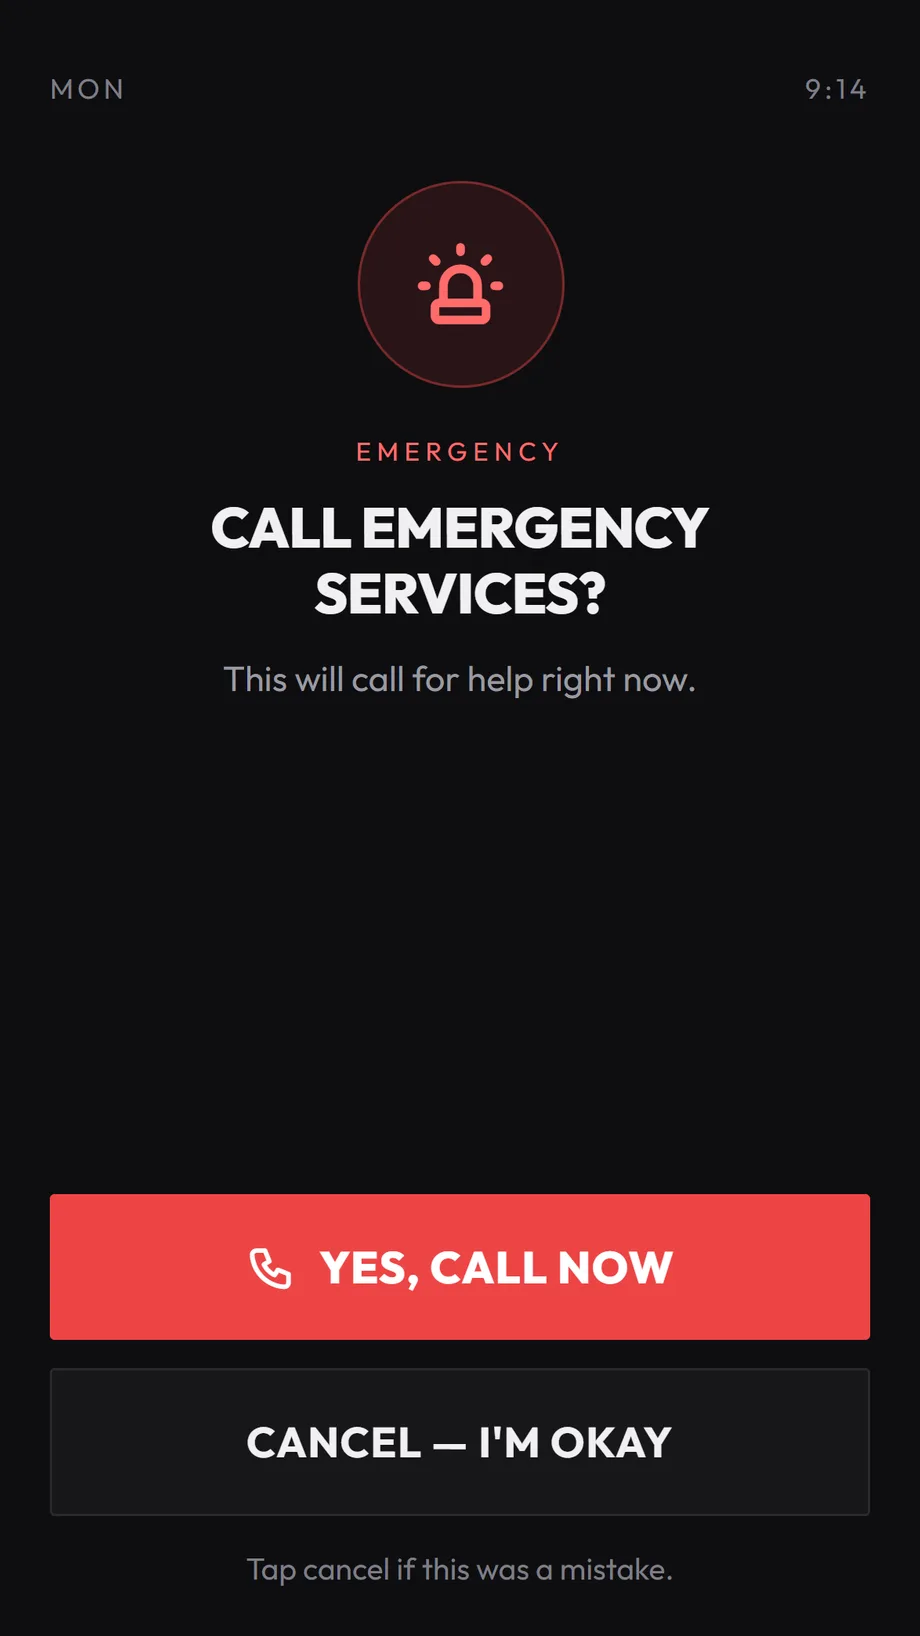
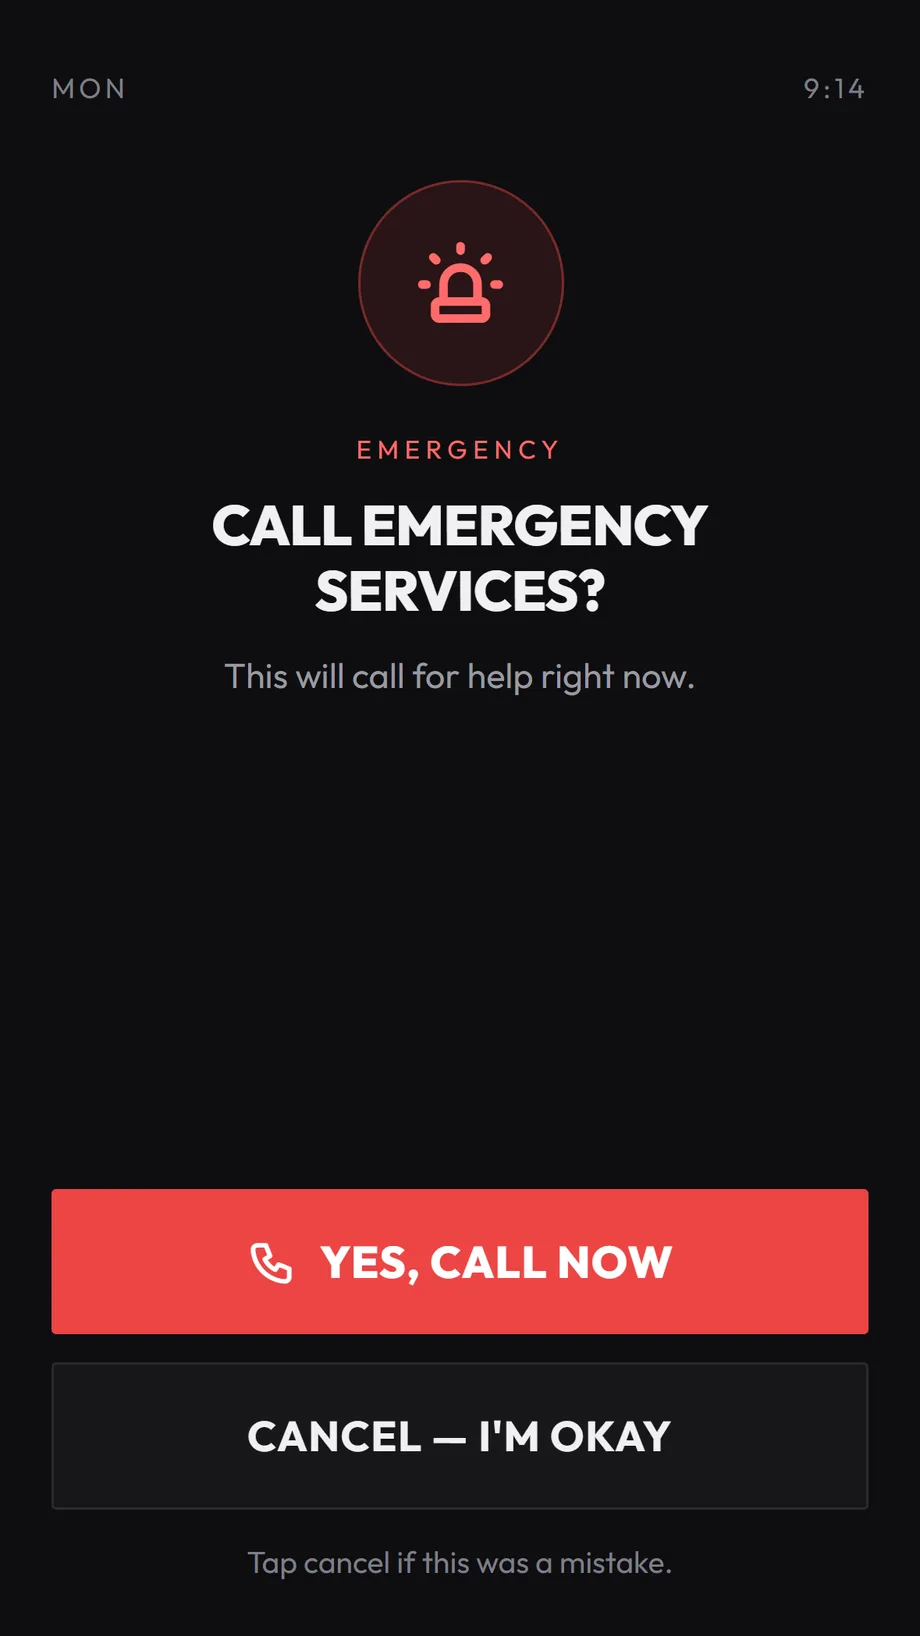
gender-neutral copy pass: they/them across site + app (grandma or grandpa), demo persona Rose->Alex, contact Thomas->Daniel; all screenshots recaptured

diff --git a/index.html b/index.html
@@ -3,11 +3,11 @@
 <head>
 <meta charset="utf-8">
 <meta name="viewport" content="width=device-width, initial-scale=1">
-<title>Oto | Freedom for Her. Peace of Mind for You.</title>
-<meta name="description" content="Oto is one calm screen for someone you love in assisted living — she calls family with a tap, tells you she's okay, sees her day, and can always reach help. She initiates. Family receives. Never surveillance.">
+<title>Oto | Freedom for Them. Peace of Mind for You.</title>
+<meta name="description" content="Oto is one calm screen for someone you love in assisted living — they call family with a tap, tell you they're okay, see their day, and can always reach help. They initiate. Family receives. Never surveillance.">
 <link rel="canonical" href="https://otoshiyori.health/">
-<meta property="og:title" content="Oto — Freedom for her. Peace of mind for you.">
-<meta property="og:description" content="A dignity-first companion app for older adults. She calls, she checks in, she asks for help — on her terms.">
+<meta property="og:title" content="Oto — Freedom for them. Peace of mind for you.">
+<meta property="og:description" content="A dignity-first companion app for older adults. They call, they check in, they ask for help — on their terms.">
 <meta property="og:image" content="https://otoshiyori.health/assets/img/og.png">
 <meta property="og:url" content="https://otoshiyori.health/">
 <meta property="og:type" content="website">
@@ -19,7 +19,7 @@
 <script type="application/ld+json">
 { "@context": "https://schema.org", "@type": "FAQPage", "mainEntity": [
   { "@type": "Question", "name": "Is Oto a monitoring app?",
-    "acceptedAnswer": { "@type": "Answer", "text": "No — and that's the point. Oto has no GPS, no location tracking, no camera watching, and no family dashboard of her activity. Everything family sees is something she chose to send." } },
+    "acceptedAnswer": { "@type": "Answer", "text": "No — and that's the point. Oto has no GPS, no location tracking, no camera watching, and no family dashboard of their activity. Everything family sees is something they chose to send." } },
   { "@type": "Question", "name": "When will Oto be available?",
     "acceptedAnswer": { "@type": "Answer", "text": "Oto is in development. It will launch on Google Play; you can write to support@ubersoft.pro to hear when it's ready." } },
   { "@type": "Question", "name": "Who is Oto for?",
@@ -139,22 +139,22 @@
 <header class="hero" id="top"><div class="wrap">
   <img class="icon" src="/assets/img/app-icon.png" alt="Oto app icon" width="84" height="84">
   <div class="eyebrow">Oto · お年寄り</div>
-  <h1>Freedom for her. <em>Peace of mind</em> for you.</h1>
-  <p class="sub">One calm screen for someone you love in assisted living. She calls family with a tap, tells you she's okay, sees her day, and can always reach help — on her terms, never under surveillance.</p>
+  <h1>Freedom for them. <em>Peace of mind</em> for you.</h1>
+  <p class="sub">One calm screen for someone you love in assisted living. They call family with a tap, tell you they're okay, see their day, and can always reach help — on their terms, never under surveillance.</p>
   <div class="cta"><span class="chip-soon"><i></i>In development — coming to Google Play</span></div>
-  <div class="trust"><span>She initiates</span><span>No tracking</span><span>No account</span></div>
+  <div class="trust"><span>They initiate</span><span>No tracking</span><span>No account</span></div>
 </div></header>
 
 <div class="stats"><div class="stats-in">
   <div class="stat"><b>1</b><span>Tap to reach family</span></div>
   <div class="stat"><b>0</b><span>Tracking &amp; surveillance</span></div>
   <div class="stat"><b>4</b><span>Things, done gently</span></div>
-  <div class="stat"><b>100%</b><span>Her choice, always</span></div>
+  <div class="stat"><b>100%</b><span>Their choice, always</span></div>
 </div></div>
 
 <section id="features"><div class="wrap">
   <div class="sec-head reveal">
-    <span class="eyebrow">What she gets</span>
+    <span class="eyebrow">What they get</span>
     <h2>One screen. Everything that matters.</h2>
     <p>No menus to get lost in, no feeds, no noise. Four things, big and clear, all of them hers.</p>
   </div>
@@ -163,7 +163,7 @@
     <div class="ftext">
       <span class="eyebrow">Tap a face to call</span>
       <h2>Family is one tap away.</h2>
-      <p>No dialer, no contact list to navigate. She taps Thomas's face and it rings Thomas. Photos, never menus — built for older eyes and less steady hands.</p>
+      <p>No dialer, no contact list to navigate. Tap Daniel's face and it rings Daniel. Photos, never menus — built for older eyes and less steady hands.</p>
     </div>
     <div class="fphone"><button class="shot-link" type="button" data-full="/assets/img/shot-home.webp" aria-label="Enlarge screenshot: Oto home screen: family call faces, I'm okay button, today's reminders"><img class="shotimg reveal-slide" src="/assets/img/shot-home.png" srcset="/assets/img/shot-home.webp" alt="Oto home screen: family call faces, I'm okay button, today's reminders" loading="lazy" width="460" height="818"></button></div>
   </div>
@@ -171,19 +171,19 @@
   <div class="feature flip reveal">
     <div class="ftext">
       <span class="eyebrow">I'm okay today</span>
-      <h2>She sends it. You breathe.</h2>
-      <p>One green tap and the family knows she's fine. She gives the reassurance — she isn't tracked into it. That's the whole idea: she initiates, family receives.</p>
+      <h2>They send it. You breathe.</h2>
+      <p>One green tap and the family knows they're fine. They give the reassurance — they aren't tracked into it. That's the whole idea: they initiate, family receives.</p>
     </div>
-    <div class="fphone"><button class="shot-link" type="button" data-full="/assets/img/shot-home-sent.webp" aria-label="Enlarge screenshot: The I'm okay check-in sent — family knows she's fine"><img class="shotimg reveal-slide" src="/assets/img/shot-home-sent.png" srcset="/assets/img/shot-home-sent.webp" alt="The I'm okay check-in sent — family knows she's fine" loading="lazy" width="460" height="818"></button></div>
+    <div class="fphone"><button class="shot-link" type="button" data-full="/assets/img/shot-home-sent.webp" aria-label="Enlarge screenshot: The I'm okay check-in sent — family knows they're fine"><img class="shotimg reveal-slide" src="/assets/img/shot-home-sent.png" srcset="/assets/img/shot-home-sent.webp" alt="The I'm okay check-in sent — family knows they're fine" loading="lazy" width="460" height="818"></button></div>
   </div>
 
   <div class="feature reveal">
     <div class="ftext">
       <span class="eyebrow">Today</span>
-      <h2>Her day, on her terms.</h2>
-      <p>Morning pills, tea with Margaret — gentle reminders she controls. Family can add to her day, but never invisibly: anything they add is labeled, and she can always remove it.</p>
+      <h2>Their day, on their terms.</h2>
+      <p>Morning pills, tea with Margaret — gentle reminders under their control. Family can add to the day, but never invisibly: anything added is clearly labeled and can always be removed.</p>
     </div>
-    <div class="fphone"><button class="shot-link" type="button" data-full="/assets/img/shot-calling.webp" aria-label="Enlarge screenshot: Calling Thomas — one tap native call"><img class="shotimg reveal-slide" src="/assets/img/shot-calling.png" srcset="/assets/img/shot-calling.webp" alt="Calling Thomas — one tap native call" loading="lazy" width="460" height="818"></button></div>
+    <div class="fphone"><button class="shot-link" type="button" data-full="/assets/img/shot-calling.webp" aria-label="Enlarge screenshot: Calling Daniel — one tap native call"><img class="shotimg reveal-slide" src="/assets/img/shot-calling.png" srcset="/assets/img/shot-calling.webp" alt="Calling Daniel — one tap native call" loading="lazy" width="460" height="818"></button></div>
   </div>
 
   <div class="feature flip reveal">
@@ -200,14 +200,14 @@
   <div class="sec-head reveal">
     <span class="eyebrow">Why it's different</span>
     <h2>Dignity is the product.</h2>
-    <p>Most "senior safety" apps quietly become surveillance the family loves and she resents. Oto is built the other way up.</p>
+    <p>Most "senior safety" apps quietly become surveillance the family loves and the person resents. Oto is built the other way up.</p>
   </div>
   <div class="bens">
-    <div class="ben reveal"><h3><b>She</b> initiates</h3><p>Every signal the family sees is something she chose to send. The safety net stays invisible until it's truly needed.</p></div>
+    <div class="ben reveal"><h3><b>They</b> initiate</h3><p>Every signal the family sees is something they chose to send. The safety net stays invisible until it's truly needed.</p></div>
     <div class="ben reveal"><h3>No tracking</h3><p>No GPS, no location history, no camera watching, no activity dashboard. If it would feel like being watched, it isn't in Oto.</p></div>
     <div class="ben reveal"><h3>Big &amp; readable</h3><p>Large type, generous targets, high contrast, and lots of air. Built for older eyes and hands that aren't as steady as they were.</p></div>
     <div class="ben reveal"><h3>Real phone calls</h3><p>Calls go through the phone's own dialer — reliable, familiar, and they work even when the app doesn't.</p></div>
-    <div class="ben reveal"><h3>Family stays close</h3><p>The family side is deliberately tiny: a gentle "she's okay today" and a call button. Peace of mind, not a monitoring console.</p></div>
+    <div class="ben reveal"><h3>Family stays close</h3><p>The family side is deliberately tiny: a gentle "they're okay today" and a call button. Peace of mind, not a monitoring console.</p></div>
     <div class="ben reveal"><h3>For every ability</h3><p>Designed with older adults and people with limited mobility or dexterity in mind — including those who need a little help answering.</p></div>
   </div>
 </div></section>
@@ -217,8 +217,8 @@
     <span class="eyebrow">FAQ</span>
     <h2>Fair questions.</h2>
   </div>
-  <details class="faq"><summary>Is Oto a monitoring app?<span class="fx" aria-hidden="true"></span></summary><p>No — and that's the point. There's no GPS, no location tracking, and no dashboard of her activity. Everything family sees is something she chose to send. Oto is hers; family receives.</p></details>
-  <details class="faq"><summary>Who sets up her schedule?<span class="fx" aria-hidden="true"></span></summary><p>She owns it. Family can help — repeating things like medication get set up once, together — and anything family adds appears clearly labeled, and she can remove it. Nothing ever changes behind her back.</p></details>
+  <details class="faq"><summary>Is Oto a monitoring app?<span class="fx" aria-hidden="true"></span></summary><p>No — and that's the point. There's no GPS, no location tracking, and no dashboard of their activity. Everything family sees is something they chose to send. Oto is theirs; family receives.</p></details>
+  <details class="faq"><summary>Who sets up their schedule?<span class="fx" aria-hidden="true"></span></summary><p>They own it. Family can help — repeating things like medication get set up once, together — and anything family adds appears clearly labeled and can be removed. Nothing ever changes behind their back.</p></details>
   <details class="faq"><summary>What about real emergencies?<span class="fx" aria-hidden="true"></span></summary><p>The help button reaches a real person — family or the facility's nurse line. A true emergency-services call is there too, always behind a calm "are you sure?" confirm so an accidental tap never dials an ambulance.</p></details>
   <details class="faq"><summary>Who is Oto for?<span class="fx" aria-hidden="true"></span></summary><p>Older adults — especially in assisted living — and people with limited mobility or dexterity, plus the families who love them. "Otoshiyori" (お年寄り) is Japanese for the elderly.</p></details>
   <details class="faq"><summary>When can I get it?<span class="fx" aria-hidden="true"></span></summary><p>Oto is in development and will launch on Google Play. Write to <a href="mailto:support@ubersoft.pro" style="color:var(--green)">support@ubersoft.pro</a> and we'll tell you the moment it's ready.</p></details>
@@ -227,7 +227,7 @@
 <section class="download"><div class="wrap">
   <span class="eyebrow">Get Oto</span>
   <h2>Coming to Google Play.</h2>
-  <p>Oto is being built right now — for a real grandmother, in a real assisted-living home. Want to know when it's ready?</p>
+  <p>Oto is being built right now — for a real grandparent, in a real assisted-living home. Want to know when it's ready?</p>
   <div class="cta"><a class="nav-btn" href="mailto:support@ubersoft.pro?subject=Tell%20me%20when%20Oto%20is%20ready" style="padding:14px 26px">Tell me when it's ready</a></div>
 </div></section>
 
@@ -235,7 +235,7 @@
   <div class="foot-grid">
     <div class="foot-brand">
       <a class="brand" href="/">OTO<b>♥</b></a>
-      <p>One calm screen for someone you love. She initiates, family receives — freedom for her, peace of mind for you.</p>
+      <p>One calm screen for someone you love. They initiate, family receives — freedom for them, peace of mind for you.</p>
     </div>
     <div class="foot-col">
       <h4>Product</h4>
@@ -254,7 +254,7 @@
     </div>
   </div>
   <p class="foot-legal">
-    No tracking, no surveillance — everything family sees, she chose to send.<br>
+    No tracking, no surveillance — everything family sees, they chose to send.<br>
     Google Play and the Google Play logo are trademarks of Google LLC.<br>© <span id="cpyear">2026</span> <a href="https://ubersoft.pro" target="_blank" rel="noopener">Ubersoft</a>. All rights reserved.
   </p>
 </div></footer>

diff --git a/privacy.html b/privacy.html
@@ -4,7 +4,7 @@
 <meta charset="utf-8">
 <meta name="viewport" content="width=device-width, initial-scale=1">
 <title>Privacy Policy | Oto</title>
-<meta name="description" content="Oto's privacy policy: no tracking, no location, no surveillance. Everything family sees is something she chose to send.">
+<meta name="description" content="Oto's privacy policy: no tracking, no location, no surveillance. Everything family sees is something they chose to send.">
 <link rel="canonical" href="https://otoshiyori.health/privacy.html">
 <link rel="icon" href="/favicon.ico" sizes="16x16 32x32 48x48">
 <link rel="icon" type="image/png" sizes="32x32" href="/favicon-32x32.png">
@@ -83,31 +83,31 @@
 <main class="wrap">
   <div class="legal">
 
-    <p class="lede">Oto (the "app") is built and published by Ubersoft ("we," "us," "our") on one rule: <b>she initiates, family receives.</b> The app does not track its user — no location, no monitoring, no surveillance. Everything a family member sees is something she chose to send.</p>
+    <p class="lede">Oto (the "app") is built and published by Ubersoft ("we," "us," "our") on one rule: <b>they initiate, family receives.</b> The app does not track its user — no location, no monitoring, no surveillance. Everything a family member sees is something they chose to send.</p>
 
     <div class="summary">
       <div class="st">In plain terms</div>
       <ul>
         <li><span class="tick"><svg viewBox="0 0 24 24"><path d="M20 6 9 17l-5-5"/></svg></span><span><b>No tracking.</b> No GPS, no location, no movement data, no activity monitoring.</span></li>
         <li><span class="tick"><svg viewBox="0 0 24 24"><path d="M20 6 9 17l-5-5"/></svg></span><span><b>No surveillance.</b> No ambient audio, video, photos, or screen activity — ever.</span></li>
-        <li><span class="tick"><svg viewBox="0 0 24 24"><path d="M20 6 9 17l-5-5"/></svg></span><span><b>She chooses what's shared.</b> Check-ins and help requests go only to the family she approved.</span></li>
-        <li><span class="tick"><svg viewBox="0 0 24 24"><path d="M20 6 9 17l-5-5"/></svg></span><span><b>No ads, nothing sold.</b> No advertising identifiers, no analytics tied to her, no data sold or shared.</span></li>
+        <li><span class="tick"><svg viewBox="0 0 24 24"><path d="M20 6 9 17l-5-5"/></svg></span><span><b>They choose what's shared.</b> Check-ins and help requests go only to the family they approved.</span></li>
+        <li><span class="tick"><svg viewBox="0 0 24 24"><path d="M20 6 9 17l-5-5"/></svg></span><span><b>No ads, nothing sold.</b> No advertising identifiers, no analytics tied to them, no data sold or shared.</span></li>
       </ul>
     </div>
 
     <h2><span class="n">01</span> What Oto stores on the device</h2>
     <ul class="body-list">
-      <li>Her contacts (names, photos, phone numbers), her schedule, and her preferences — stored on the device.</li>
+      <li>Their contacts (names, photos, phone numbers), their schedule, and their preferences — stored on the device.</li>
     </ul>
 
     <h2><span class="n">02</span> Check-ins and help requests — the one thing that leaves</h2>
-    <p>Check-ins ("I'm okay today") and help requests are the only information that leaves the device. They are delivered <b>only</b> to the family members she or her family added during setup, and are kept only as recent history. Nothing is sent that she didn't choose to send.</p>
+    <p>Check-ins ("I'm okay today") and help requests are the only information that leaves the device. They are delivered <b>only</b> to the family members added during setup, and are kept only as recent history. Nothing is sent that the user didn't choose to send.</p>
 
     <h2><span class="n">03</span> What Oto never collects</h2>
     <ul class="body-list">
       <li>Location, movement, or GPS data of any kind.</li>
       <li>Ambient audio, video, photos, or screen activity.</li>
-      <li>Usage analytics tied to her identity, advertising identifiers, or any data sold or shared with third parties.</li>
+      <li>Usage analytics tied to their identity, advertising identifiers, or any data sold or shared with third parties.</li>
     </ul>
 
     <h2><span class="n">04</span> Calls</h2>
@@ -129,7 +129,7 @@
   <div class="foot-grid">
     <div class="foot-brand">
       <a class="brand" href="/">OTO<b>♥</b></a>
-      <p>One calm screen for someone you love. She initiates, family receives — freedom for her, peace of mind for you.</p>
+      <p>One calm screen for someone you love. They initiate, family receives — freedom for them, peace of mind for you.</p>
     </div>
     <div class="foot-col">
       <h4>Product</h4>
@@ -148,7 +148,7 @@
     </div>
   </div>
   <p class="foot-legal">
-    No tracking, no surveillance — everything family sees, she chose to send.<br>
+    No tracking, no surveillance — everything family sees, they chose to send.<br>
     Google Play and the Google Play logo are trademarks of Google LLC.<br>© <span id="cpyear">2026</span> <a href="https://ubersoft.pro" target="_blank" rel="noopener">Ubersoft</a>. All rights reserved.
   </p>
 </div></footer>

diff --git a/download.html b/download.html
@@ -56,7 +56,7 @@
   <img class="icon" src="/assets/img/app-icon.png" alt="Oto app icon" width="96" height="96">
   <div class="eyebrow">Get Oto</div>
   <h1>Coming to Google Play.</h1>
-  <p class="sub">Oto is in development — being built for a real grandmother in a real assisted-living home, and for everyone like her. When it's ready, it will be here.</p>
+  <p class="sub">Oto is in development — being built for a real grandparent in a real assisted-living home, and for everyone like them. When it's ready, it will be here.</p>
   <div><span class="chip-soon"><i></i>In development</span></div>
   <div><a class="btn" href="mailto:support@ubersoft.pro?subject=Tell%20me%20when%20Oto%20is%20ready">Tell me when it's ready</a></div>
 </main>
@@ -65,7 +65,7 @@
   <div class="foot-grid">
     <div class="foot-brand">
       <a class="brand" href="/">OTO<b>♥</b></a>
-      <p>One calm screen for someone you love. She initiates, family receives — freedom for her, peace of mind for you.</p>
+      <p>One calm screen for someone you love. They initiate, family receives — freedom for them, peace of mind for you.</p>
     </div>
     <div class="foot-col">
       <h4>Product</h4>
@@ -84,7 +84,7 @@
     </div>
   </div>
   <p class="foot-legal">
-    No tracking, no surveillance — everything family sees, she chose to send.<br>
+    No tracking, no surveillance — everything family sees, they chose to send.<br>
     Google Play and the Google Play logo are trademarks of Google LLC.<br>© <span id="cpyear">2026</span> <a href="https://ubersoft.pro" target="_blank" rel="noopener">Ubersoft</a>. All rights reserved.
   </p>
 </div></footer>
